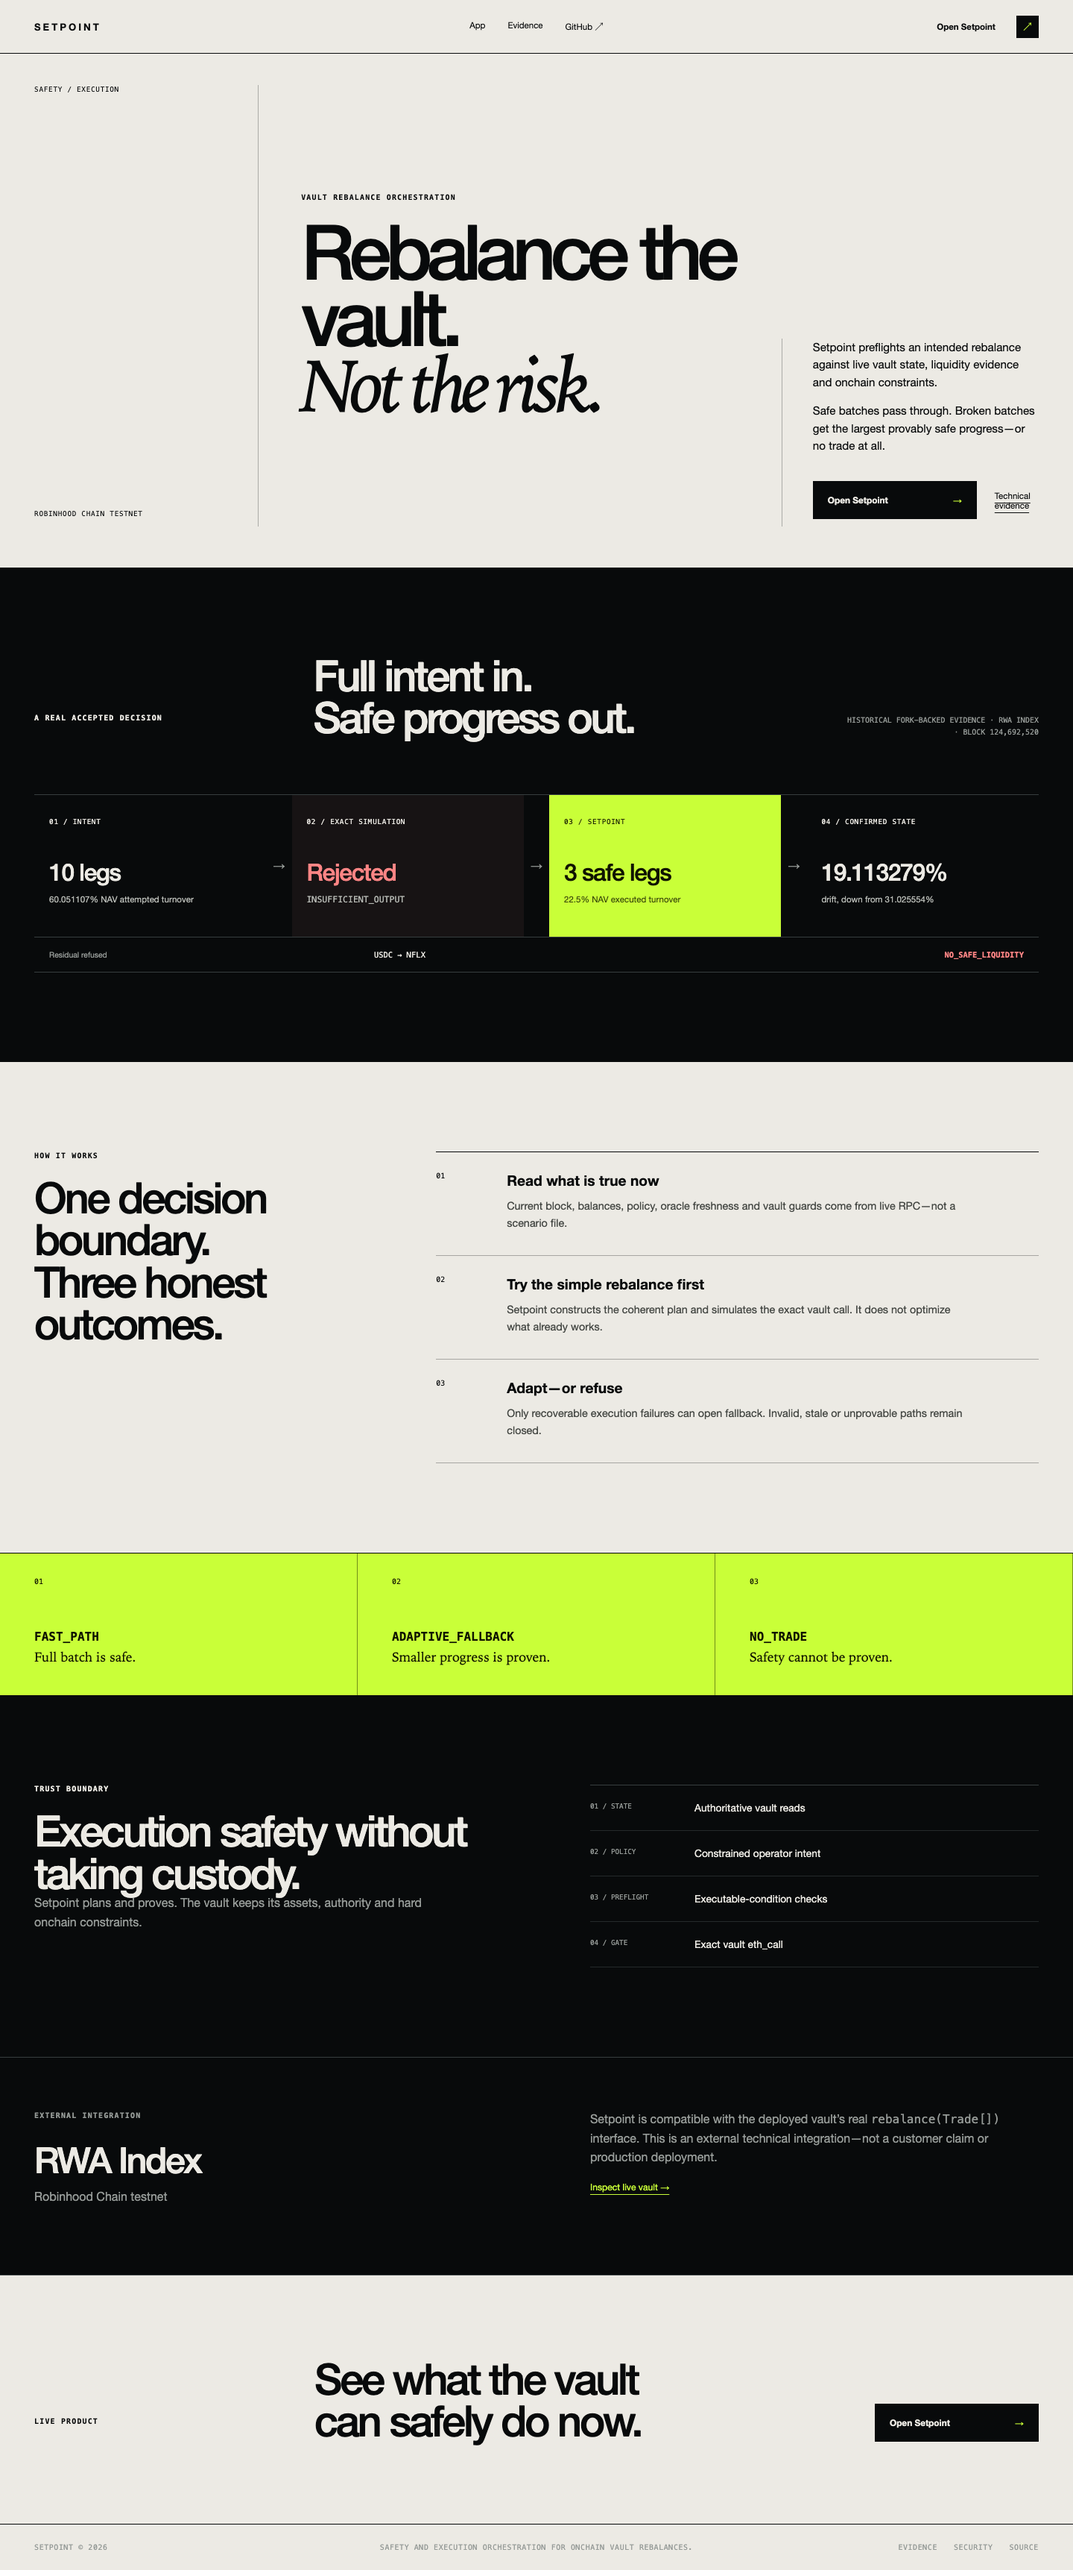
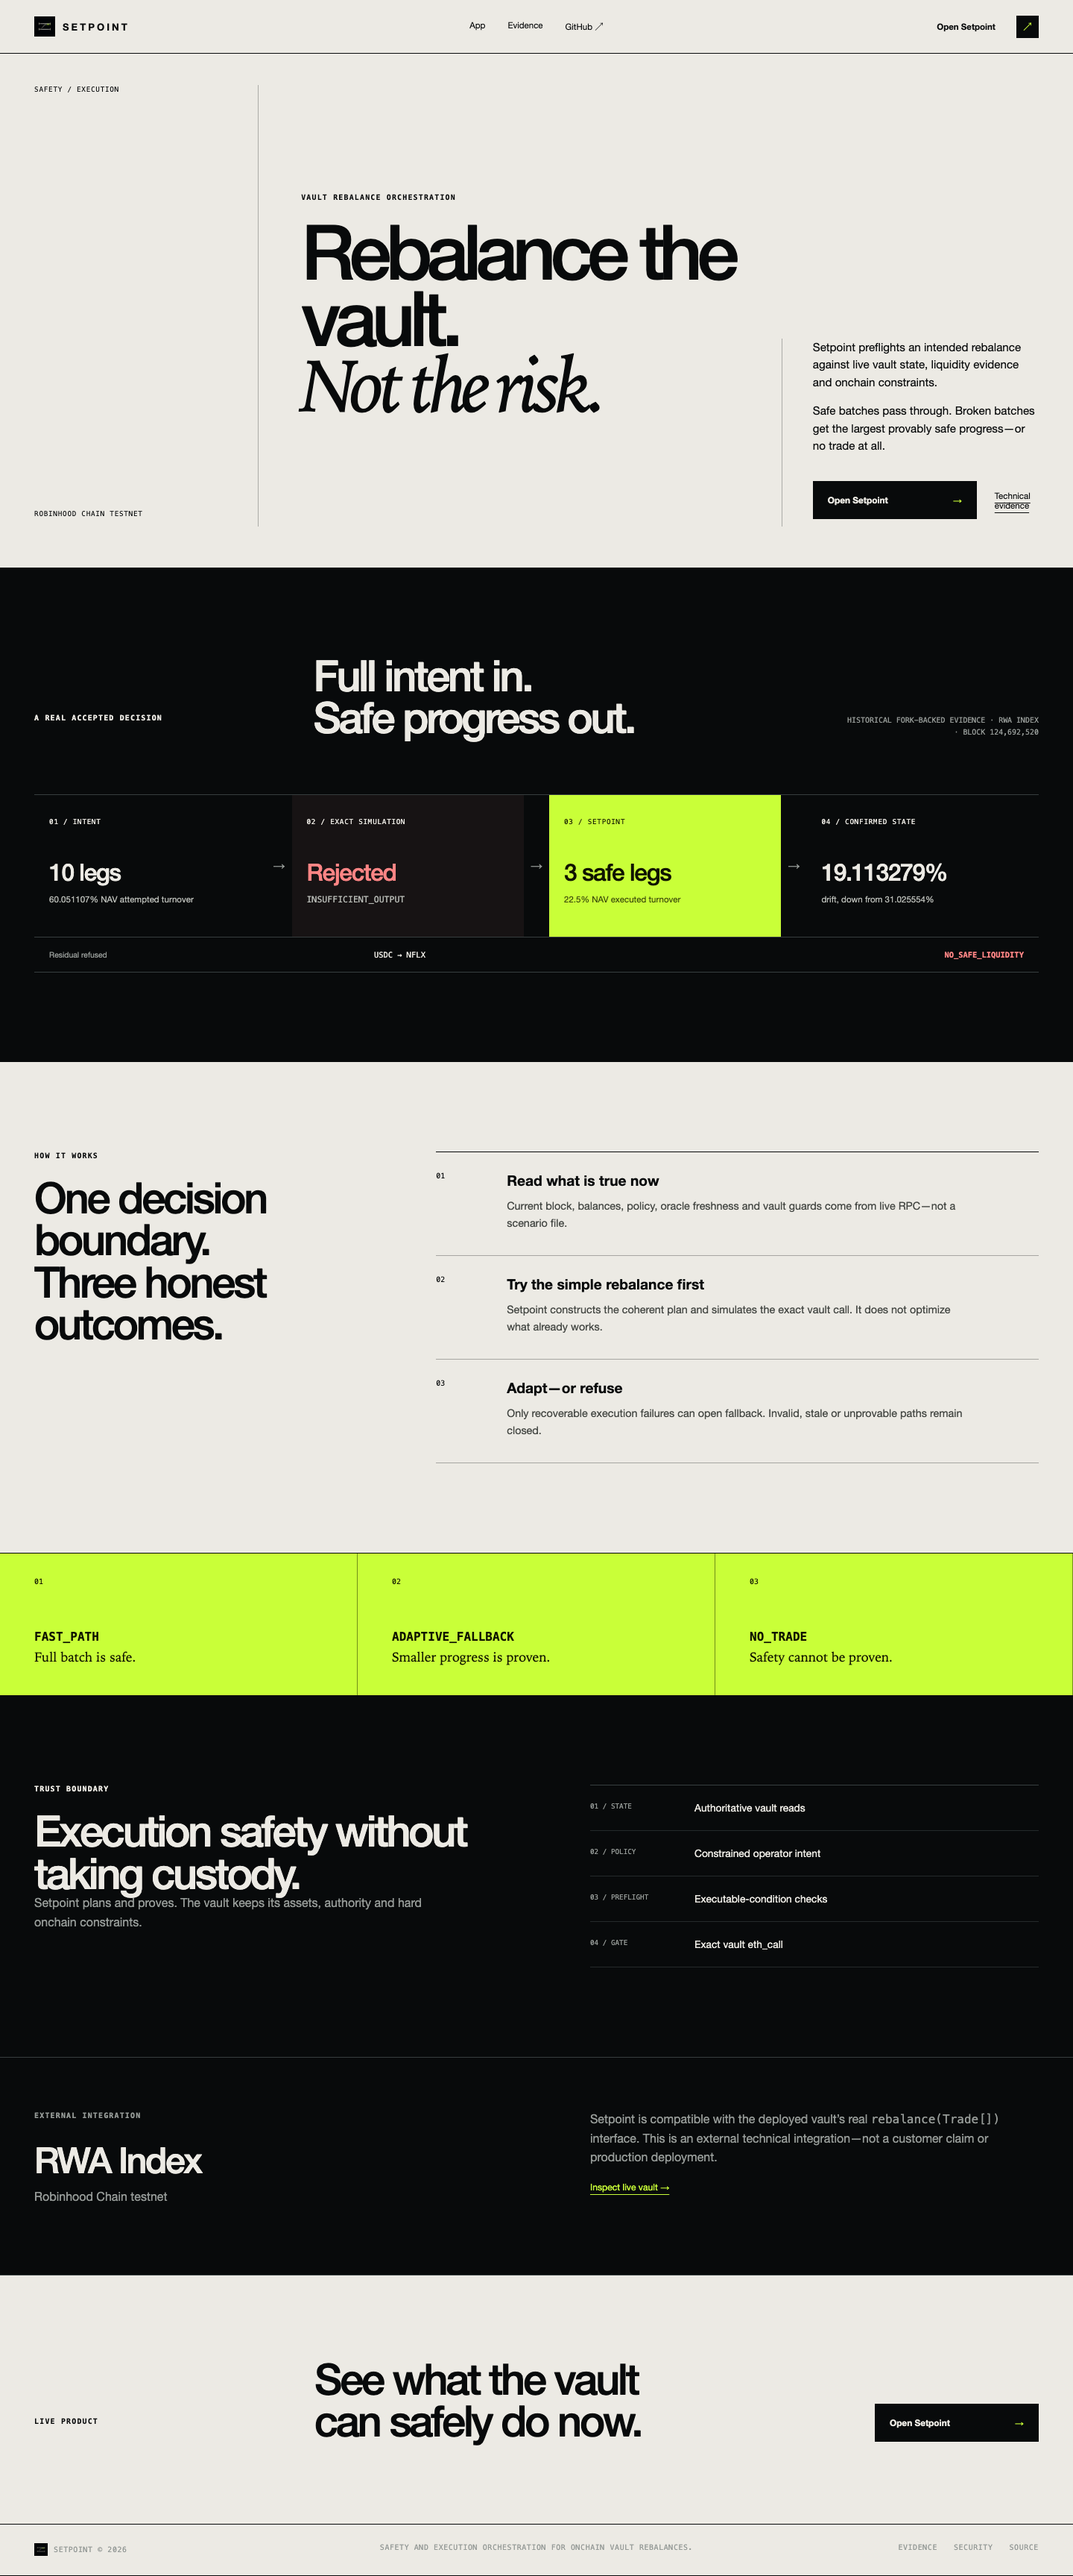
feat: update branding assets and improve image references across the application

diff --git a/web/Landing.tsx b/web/Landing.tsx
@@ -1,5 +1,5 @@
 function SiteHeader() {
-  return <header className="landing-header"><a className="landing-wordmark" href="/"><img alt="" className="brand-mark" height={28} src="/brand/mark.png" width={28} /><span>SETPOINT</span></a><nav aria-label="Primary navigation"><a href="/app">App</a><a href="/evidence">Evidence</a><a href="https://github.com/karagozemin/setpoint" target="_blank" rel="noreferrer">GitHub ↗</a></nav><a className="landing-open" href="/app">Open Setpoint <span>↗</span></a></header>;
+  return <header className="landing-header"><a className="landing-wordmark" href="/"><img alt="" className="brand-mark" height={28} src="/brand/setpoint.png" width={28} /><span>SETPOINT</span></a><nav aria-label="Primary navigation"><a href="/app">App</a><a href="/evidence">Evidence</a><a href="https://github.com/karagozemin/setpoint" target="_blank" rel="noreferrer">GitHub ↗</a></nav><a className="landing-open" href="/app">Open Setpoint <span>↗</span></a></header>;
 }
 
 export default function Landing() {
@@ -43,6 +43,6 @@ export default function Landing() {
 
       <section className="closing-cta"><p className="product-kicker">Live product</p><h2>See what the vault<br />can safely do now.</h2><a href="/app">Open Setpoint <span>→</span></a></section>
     </main>
-    <footer className="landing-footer"><span className="footer-brand"><img alt="" className="brand-mark brand-mark-sm" height={18} src="/brand/mark.png" width={18} />SETPOINT © 2026</span><p>Safety and execution orchestration for onchain vault rebalances.</p><nav><a href="/evidence">Evidence</a><a href="https://github.com/karagozemin/setpoint/blob/main/docs/SECURITY.md" target="_blank" rel="noreferrer">Security</a><a href="https://github.com/karagozemin/setpoint" target="_blank" rel="noreferrer">Source</a></nav></footer>
+    <footer className="landing-footer"><span className="footer-brand"><img alt="" className="brand-mark brand-mark-sm" height={18} src="/brand/setpoint.png" width={18} />SETPOINT © 2026</span><p>Safety and execution orchestration for onchain vault rebalances.</p><nav><a href="/evidence">Evidence</a><a href="https://github.com/karagozemin/setpoint/blob/main/docs/SECURITY.md" target="_blank" rel="noreferrer">Security</a><a href="https://github.com/karagozemin/setpoint" target="_blank" rel="noreferrer">Source</a></nav></footer>
   </div>;
 }

diff --git a/web/Router.tsx b/web/Router.tsx
@@ -5,7 +5,7 @@ const LiveApp = lazy(() => import("./live/LiveApp"));
 const EvidenceApp = lazy(() => import("./App"));
 
 function RouteLoading() {
-  return <main className="route-loading"><img alt="" className="brand-mark brand-mark-lg" height={44} src="/brand/mark.png" width={44} /><span>SETPOINT</span><p>Loading product surface…</p></main>;
+  return <main className="route-loading"><img alt="" className="brand-mark brand-mark-lg" height={44} src="/brand/setpoint.png" width={44} /><span>SETPOINT</span><p>Loading product surface…</p></main>;
 }
 
 export default function Router() {
@@ -13,5 +13,5 @@ export default function Router() {
   if (path === "/") return <Landing />;
   if (path === "/app" || path.startsWith("/app/")) return <Suspense fallback={<RouteLoading />}><LiveApp /></Suspense>;
   if (path === "/evidence" || path.startsWith("/evidence/")) return <Suspense fallback={<RouteLoading />}><EvidenceApp /></Suspense>;
-  return <main className="not-found"><img alt="" className="brand-mark brand-mark-lg" height={44} src="/brand/mark.png" width={44} /><p className="product-kicker">404 / Route not found</p><h1>This surface does not exist.</h1><a href="/">Return to Setpoint</a></main>;
+  return <main className="not-found"><img alt="" className="brand-mark brand-mark-lg" height={44} src="/brand/setpoint.png" width={44} /><p className="product-kicker">404 / Route not found</p><h1>This surface does not exist.</h1><a href="/">Return to Setpoint</a></main>;
 }

diff --git a/web/App.tsx b/web/App.tsx
@@ -239,7 +239,7 @@ export default function EvidenceApp() {
     <div className="app-shell">
       <header className="topbar">
         <a className="wordmark" href="/evidence" aria-label="Setpoint evidence console home">
-          <img alt="" className="brand-mark" height={28} src="/brand/mark.png" width={28} />
+          <img alt="" className="brand-mark" height={28} src="/brand/setpoint.png" width={28} />
           <span className="wordmark-name">SETPOINT</span>
           <span className="wordmark-section">/ OPERATOR CONSOLE</span>
         </a>
@@ -282,7 +282,7 @@ export default function EvidenceApp() {
 
       <footer>
         <div>
-          <span className="footer-brand"><img alt="" className="brand-mark brand-mark-sm" height={18} src="/brand/mark.png" width={18} />SETPOINT · EVIDENCE CONSOLE</span>
+          <span className="footer-brand"><img alt="" className="brand-mark brand-mark-sm" height={18} src="/brand/setpoint.png" width={18} />SETPOINT · EVIDENCE CONSOLE</span>
           <span>External integration: RWA Index</span>
           <span>Historical, fork-backed Robinhood Chain testnet evidence. No live funds or production execution.</span>
         </div>

diff --git a/index.html b/index.html
@@ -4,10 +4,10 @@
     <meta charset="UTF-8" />
     <meta name="viewport" content="width=device-width, initial-scale=1.0" />
     <meta name="theme-color" content="#080a0b" />
-    <link rel="icon" type="image/png" href="/favicon.png" />
-    <link rel="apple-touch-icon" href="/apple-touch-icon.png" />
-    <meta property="og:image" content="/brand/setpoint.jpg" />
-    <meta name="twitter:image" content="/brand/setpoint.jpg" />
+    <link rel="icon" type="image/png" href="/brand/setpoint.png" />
+    <link rel="apple-touch-icon" href="/brand/setpoint.png" />
+    <meta property="og:image" content="/brand/setpoint.png" />
+    <meta name="twitter:image" content="/brand/setpoint.png" />
     <meta
       name="description"
       content="Safety and execution orchestration for onchain vault rebalances. Preflight simple rebalances and adapt when liquidity or vault constraints make them unsafe."

diff --git a/web/live/LiveApp.tsx b/web/live/LiveApp.tsx
@@ -44,7 +44,7 @@ function Header({ wallet, onConnect, onSwitch, onDisconnect }: { wallet: WalletS
   const wrongNetwork = wallet.account !== null && wallet.chainId !== rwaIndexLiveConfig.chainId;
   return (
     <header className="product-header">
-      <a href="/" className="product-wordmark"><img alt="" className="brand-mark" height={28} src="/brand/mark.png" width={28} /><span>SETPOINT</span></a>
+      <a href="/" className="product-wordmark"><img alt="" className="brand-mark" height={28} src="/brand/setpoint.png" width={28} /><span>SETPOINT</span></a>
       <nav aria-label="Primary navigation">
         <a aria-current="page" href="/app">App</a>
         <a href="/evidence">Evidence</a>

diff --git a/web/styles.css b/web/styles.css
@@ -97,7 +97,7 @@ body {
   width: 28px;
   height: 28px;
   flex: none;
-  object-fit: cover;
+  object-fit: contain;
 }
 
 .brand-mark-sm {

diff --git a/README.md b/README.md
@@ -1,7 +1,7 @@
 # Setpoint
 
 <p align="center">
-  <img src="./web/public/brand/setpoint.jpg" alt="Setpoint" width="420" />
+  <img src="./web/public/brand/setpoint.png" alt="Setpoint" width="420" />
 </p>
 
 Setpoint is a non-custodial safety and execution orchestration layer for onchain vault rebalances.
